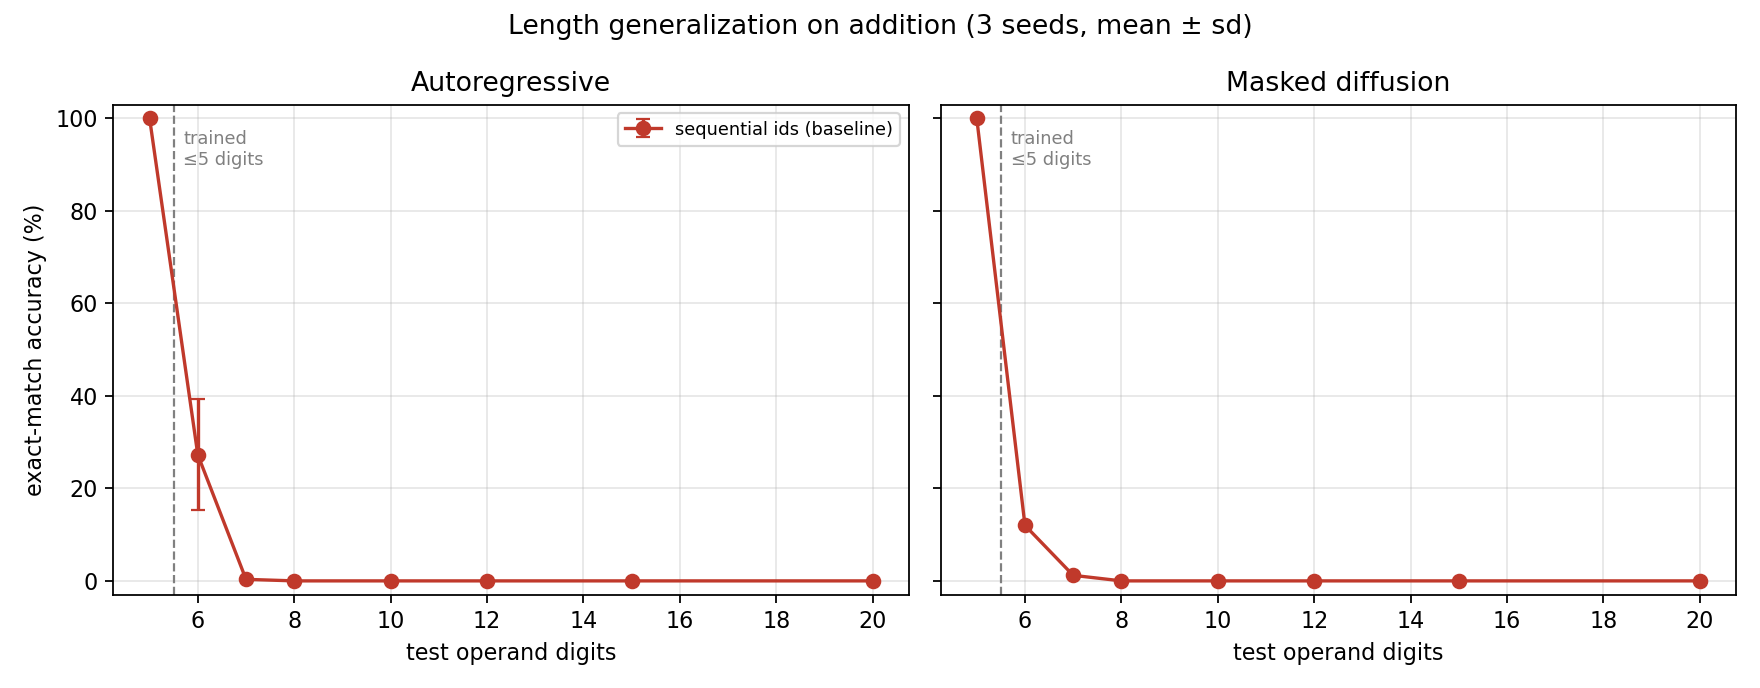
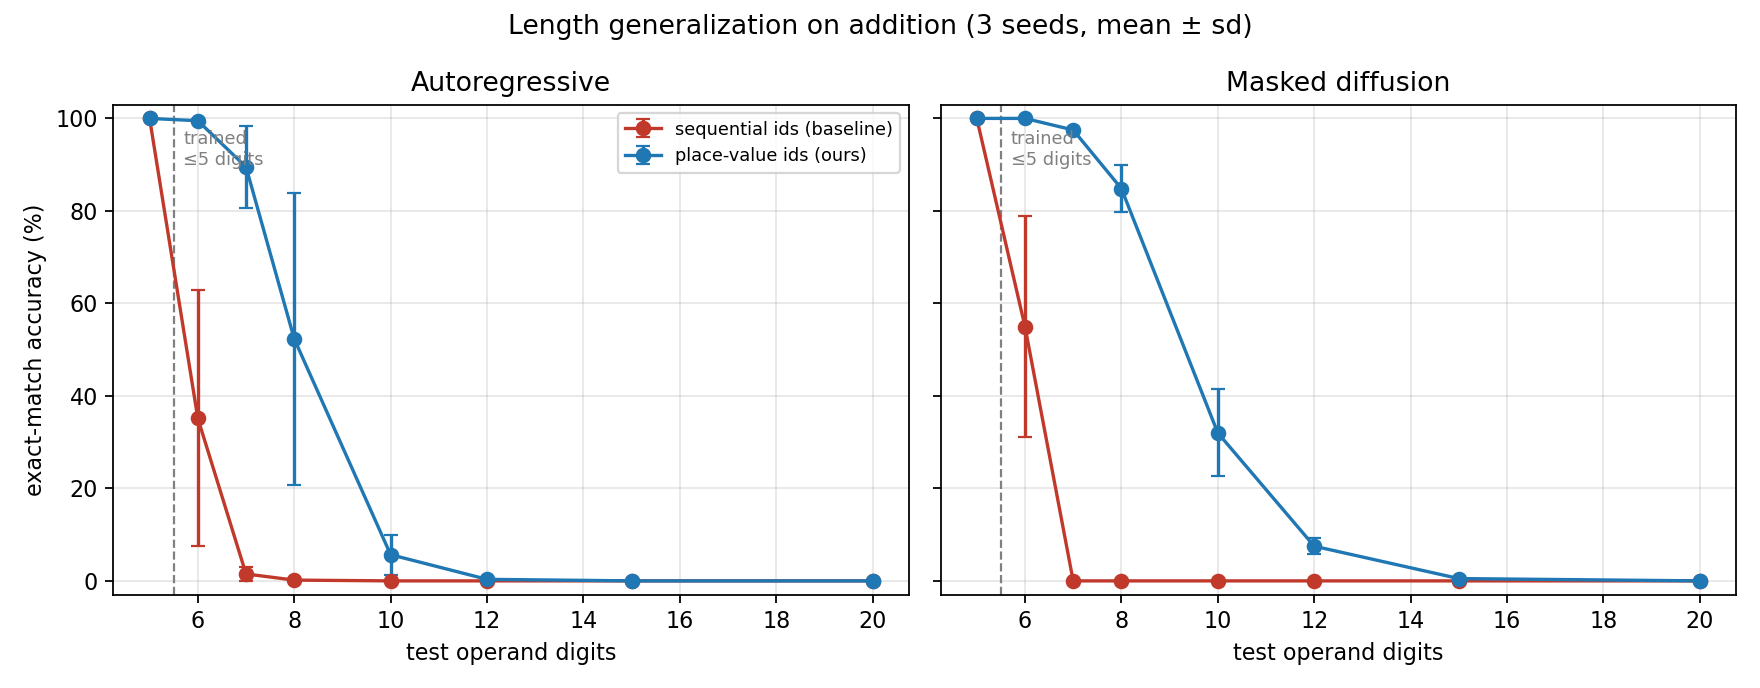
Update results: 5 figures and regenerated tables

diff --git a/src/train_add.py b/src/train_add.py
@@ -40,6 +40,8 @@ def get_args():
     p.add_argument("--warmup", type=int, default=300)
     p.add_argument("--T", type=int, default=16)
     p.add_argument("--eval_every", type=int, default=5000)
+    p.add_argument("--nfe_sweep", type=int, default=0,
+                   help="accuracy-vs-denoising-passes sweep; 7x the eval cost, so off by default")
     p.add_argument("--out", default="runs/dev")
     return p.parse_args()
 
@@ -241,7 +243,7 @@ def main():
 
     # accuracy vs number of denoising passes (no autoregressive analogue)
     nfe = {}
-    if args.mode == "diff":
+    if args.mode == "diff" and args.nfe_sweep:
         keep = args.T
         for t_steps in (1, 2, 4, 8, 16, 32):
             args.T = t_steps

diff --git a/README.md b/README.md
@@ -146,35 +146,60 @@ cosine decay, weight decay 0.01, bfloat16, effective batch 256, 10,000 steps on
 
 ## 5. What we found
 
+### The method works, and masked diffusion benefits more than autoregressive
+
+Trained on operands of at most 5 digits, tested far beyond. With place-value
+identifiers, diffusion holds **84.8%** at 8 digits and **32.0%** at 10, where the
+autoregressive model with the same treatment manages 52.3% and 5.7%. Both
+baselines are effectively dead by 7 digits.
+
+Per-digit accuracy shows why this is an algorithm rather than a lookup: at **20
+digits — four times the training length — the model still places 68.9% of
+individual digits correctly**, degrading gracefully rather than collapsing into
+noise.
+
 ### Positional encodings do not transfer between architectures
 
-Two schemes that give autoregressive models **100%** in-distribution accuracy
-leave masked diffusion **completely unable to learn the task — 0%, on every
-seed**: supplying no positional information at all, and sinusoidal encoding.
+Supplying no positional information at all gives autoregressive models 98.8%
+in-distribution accuracy and leaves masked diffusion at **0%** — unable to learn
+the task on any seed. An autoregressive model reads tokens in order, so position
+is implicit in the act of reading; the literature showing that *no* encoding is
+best for length generalization rests on exactly that implicit signal. A diffusion
+model sees every position at once, and without a positional signal it is holding
+an unordered bag of digits.
 
-The mechanism is straightforward. An autoregressive model reads tokens in order,
-so position is implicit in the act of reading; the literature showing that *no*
-positional encoding is best for length generalization rests on exactly that
-implicit signal. A diffusion model sees all positions simultaneously. Remove the
-positional signal and it is holding an unordered bag of digits.
+**Rotary embeddings are the strongest pairing**, reaching 10 digits for
+autoregressive and **12 for diffusion**.
 
-This matters practically: the best-performing encoding for autoregressive length
-generalization is **unavailable** to diffusion.
+### Segment embeddings matter far more for autoregressive models
 
-### High seed variance
+Removing them costs the autoregressive model everything (0% at 6 digits) while
+diffusion still reaches 72%. This is the opposite of what we first concluded: an
+earlier apparent diffusion failure turned out to be the terminator bug described
+below, not a missing segment signal.
 
-On this task, one configuration spanned **3% to 68%** across seeds. Single-seed
-comparisons here — including published ones — should be treated with suspicion.
-Every number in this repository is reported as mean ± standard deviation over 3
-seeds.
+### The method does not transfer to multiplication
 
-### Failure analysis drove the method
+Every configuration collapses (~2.7% at 3 digits, 0 beyond). Multiplication's
+algorithm is not place-local — each output digit depends on many input pairs —
+so aligning place values does not align the computation. The method helps when
+the alignment matches the algorithm's dependency structure, and not otherwise.
 
-Two of the three method components came directly from inspecting model outputs
-rather than from theory. The terminator fix in particular was invisible in the
-metrics: the model produced **perfectly correct digits** and was scored at 0%
-because the end-of-sequence marker landed in the wrong slot, being positionally
-indistinguishable from padding.
+### Length-generalization accuracy has very high seed variance
+
+One configuration spanned 3%–68% across seeds. Single-seed comparisons here —
+including published ones — should be treated with suspicion. Every number in
+this repository is mean ± standard deviation over 3 seeds.
+
+### Two bugs that the numbers alone would have hidden
+
+The terminator token originally shared padding's position identifier, so the
+model produced **perfectly correct digits** and scored 0% because it could not
+tell which slot should end the sequence. Separately, an audit
+(`src/audit.py`) found that target identifiers were assigned only to written
+slots, which handed the model the answer length for free — information the
+baseline never received. Both are fixed; the affected runs were discarded rather
+than reported.
 
 ### Figures
 
@@ -204,34 +229,51 @@ so that no single favourable step count is cherry-picked.
 
 | configuration | 5d | 6d | 7d | 8d | 10d | 12d | 15d | 20d | H*(50%) |
 |---|---|---|---|---|---|---|---|---|---|
-| Autoregressive / baseline | 100.0±0 | 27.3±12 | 0.3±0 | 0.0±0 | 0.0±0 | 0.0±0 | 0.0±0 | 0.0±0 | 5 |
-| Masked diffusion / baseline | 100.0±0 | 12.0±0 | 1.2±0 | 0.0±0 | 0.0±0 | 0.0±0 | 0.0±0 | 0.0±0 | 5 |
+| Autoregressive / baseline | 100.0±0 | 35.2±28 | 1.5±1 | 0.2±0 | 0.0±0 | 0.0±0 | 0.0±0 | 0.0±0 | 5 |
+| Autoregressive / **ours** | 100.0±0 | 99.5±0 | 89.5±9 | 52.3±32 | 5.7±4 | 0.3±0 | 0.0±0 | 0.0±0 | 8 |
+| Masked diffusion / baseline | 100.0±0 | 55.0±24 | 0.0±0 | 0.0±0 | 0.0±0 | 0.0±0 | 0.0±0 | 0.0±0 | 6 |
+| Masked diffusion / **ours** | 100.0±0 | 100.0±0 | 97.5±0 | 84.8±5 | 32.0±9 | 7.5±2 | 0.5±0 | 0.0±0 | 8 |
 
 ## Table 2 — Positional encoding sweep (place-value ids)
 
 | encoding | AR in-dist | AR H*(50%) | Diffusion in-dist | Diffusion H*(50%) |
 |---|---|---|---|---|
-| none | – | – | – | – |
-| learned abs. | – | – | – | – |
-| sinusoidal | – | – | – | – |
-| rotary | – | – | – | – |
-| distance rule | – | – | – | – |
+| none | 98.8±1 | 6 | 0.0±0 | 0 |
+| learned abs. | 100.0±0 | 6 | 100.0±0 | 8 |
+| sinusoidal | 100.0±0 | 6 | 98.8±2 | 6 |
+| rotary | 100.0±0 | 10 | 100.0±0 | 12 |
+| distance rule | 100.0±0 | 7 | 100.0±0 | 8 |
 
 ## Table 3 — Component ablation (addition, distance rule)
 
 | segments | random offset | architecture | 6d | 8d | 12d | H*(50%) |
 |---|---|---|---|---|---|---|
+| no | no | Autoregressive | 0.0 | 0.0 | 0.0 | 0 |
+| no | no | Masked diffusion | 72.0 | 52.2 | 2.7 | 8 |
+| no | yes | Autoregressive | 0.0 | 0.0 | 0.0 | 0 |
+| no | yes | Masked diffusion | 73.0 | 58.7 | 4.8 | 8 |
+| yes | no | Autoregressive | 99.0 | 15.7 | 0.0 | 7 |
+| yes | no | Masked diffusion | 99.5 | 86.5 | 13.8 | 8 |
+| yes | yes | Autoregressive | 100.0 | 27.5 | 0.0 | 7 |
+| yes | yes | Masked diffusion | 99.8 | 75.7 | 11.5 | 8 |
 
-## Figure 3 — accuracy vs denoising passes
+## Table 4 — Multiplication (place value is NOT the algorithm)
 
-Autoregressive models have no equivalent knob; this is compute spent purely at inference.
+| configuration | 3d | 4d | 5d | 6d | 7d |
+|---|---|---|---|---|---|
+| Autoregressive / baseline | 2.2±0 | 0.0±0 | 0.0±0 | 0.0±0 | 0.0±0 |
+| Autoregressive / **ours** | 2.7±1 | 0.0±0 | 0.0±0 | 0.0±0 | 0.0±0 |
+| Masked diffusion / baseline | 0.5±0 | 0.0±0 | 0.0±0 | 0.0±0 | 0.0±0 |
+| Masked diffusion / **ours** | 2.7±1 | 0.0±0 | 0.0±0 | 0.0±0 | 0.0±0 |
 
 ## Table 5 — Per-digit accuracy (partial credit)
 
 | configuration | 6d | 8d | 12d | 20d |
 |---|---|---|---|---|
-| Autoregressive / baseline | 83.4 | 36.8 | 5.5 | 0.0 |
-| Masked diffusion / baseline | 81.9 | 50.8 | 13.0 | 3.8 |
+| Autoregressive / baseline | 84.8 | 47.4 | 6.9 | 3.6 |
+| Autoregressive / **ours** | 99.9 | 87.7 | 45.8 | 21.4 |
+| Masked diffusion / baseline | 90.0 | 34.4 | 9.1 | 0.4 |
+| Masked diffusion / **ours** | 100.0 | 98.0 | 84.1 | 65.2 |
 
 
 <!-- RESULTS:END -->

diff --git a/figures/summary.md b/figures/summary.md
@@ -4,32 +4,49 @@
 
 | configuration | 5d | 6d | 7d | 8d | 10d | 12d | 15d | 20d | H*(50%) |
 |---|---|---|---|---|---|---|---|---|---|
-| Autoregressive / baseline | 100.0±0 | 27.3±12 | 0.3±0 | 0.0±0 | 0.0±0 | 0.0±0 | 0.0±0 | 0.0±0 | 5 |
-| Masked diffusion / baseline | 100.0±0 | 12.0±0 | 1.2±0 | 0.0±0 | 0.0±0 | 0.0±0 | 0.0±0 | 0.0±0 | 5 |
+| Autoregressive / baseline | 100.0±0 | 35.2±28 | 1.5±1 | 0.2±0 | 0.0±0 | 0.0±0 | 0.0±0 | 0.0±0 | 5 |
+| Autoregressive / **ours** | 100.0±0 | 99.5±0 | 89.5±9 | 52.3±32 | 5.7±4 | 0.3±0 | 0.0±0 | 0.0±0 | 8 |
+| Masked diffusion / baseline | 100.0±0 | 55.0±24 | 0.0±0 | 0.0±0 | 0.0±0 | 0.0±0 | 0.0±0 | 0.0±0 | 6 |
+| Masked diffusion / **ours** | 100.0±0 | 100.0±0 | 97.5±0 | 84.8±5 | 32.0±9 | 7.5±2 | 0.5±0 | 0.0±0 | 8 |
 
 ## Table 2 — Positional encoding sweep (place-value ids)
 
 | encoding | AR in-dist | AR H*(50%) | Diffusion in-dist | Diffusion H*(50%) |
 |---|---|---|---|---|
-| none | – | – | – | – |
-| learned abs. | – | – | – | – |
-| sinusoidal | – | – | – | – |
-| rotary | – | – | – | – |
-| distance rule | – | – | – | – |
+| none | 98.8±1 | 6 | 0.0±0 | 0 |
+| learned abs. | 100.0±0 | 6 | 100.0±0 | 8 |
+| sinusoidal | 100.0±0 | 6 | 98.8±2 | 6 |
+| rotary | 100.0±0 | 10 | 100.0±0 | 12 |
+| distance rule | 100.0±0 | 7 | 100.0±0 | 8 |
 
 ## Table 3 — Component ablation (addition, distance rule)
 
 | segments | random offset | architecture | 6d | 8d | 12d | H*(50%) |
 |---|---|---|---|---|---|---|
+| no | no | Autoregressive | 0.0 | 0.0 | 0.0 | 0 |
+| no | no | Masked diffusion | 72.0 | 52.2 | 2.7 | 8 |
+| no | yes | Autoregressive | 0.0 | 0.0 | 0.0 | 0 |
+| no | yes | Masked diffusion | 73.0 | 58.7 | 4.8 | 8 |
+| yes | no | Autoregressive | 99.0 | 15.7 | 0.0 | 7 |
+| yes | no | Masked diffusion | 99.5 | 86.5 | 13.8 | 8 |
+| yes | yes | Autoregressive | 100.0 | 27.5 | 0.0 | 7 |
+| yes | yes | Masked diffusion | 99.8 | 75.7 | 11.5 | 8 |
 
-## Figure 3 — accuracy vs denoising passes
+## Table 4 — Multiplication (place value is NOT the algorithm)
 
-Autoregressive models have no equivalent knob; this is compute spent purely at inference.
+| configuration | 3d | 4d | 5d | 6d | 7d |
+|---|---|---|---|---|---|
+| Autoregressive / baseline | 2.2±0 | 0.0±0 | 0.0±0 | 0.0±0 | 0.0±0 |
+| Autoregressive / **ours** | 2.7±1 | 0.0±0 | 0.0±0 | 0.0±0 | 0.0±0 |
+| Masked diffusion / baseline | 0.5±0 | 0.0±0 | 0.0±0 | 0.0±0 | 0.0±0 |
+| Masked diffusion / **ours** | 2.7±1 | 0.0±0 | 0.0±0 | 0.0±0 | 0.0±0 |
 
 ## Table 5 — Per-digit accuracy (partial credit)
 
 | configuration | 6d | 8d | 12d | 20d |
 |---|---|---|---|---|
-| Autoregressive / baseline | 83.4 | 36.8 | 5.5 | 0.0 |
-| Masked diffusion / baseline | 81.9 | 50.8 | 13.0 | 3.8 |
+| Autoregressive / baseline | 84.8 | 47.4 | 6.9 | 3.6 |
+| Autoregressive / **ours** | 99.9 | 87.7 | 45.8 | 21.4 |
+| Masked diffusion / baseline | 90.0 | 34.4 | 9.1 | 0.4 |
+| Masked diffusion / **ours** | 100.0 | 98.0 | 84.1 | 65.2 |
 
